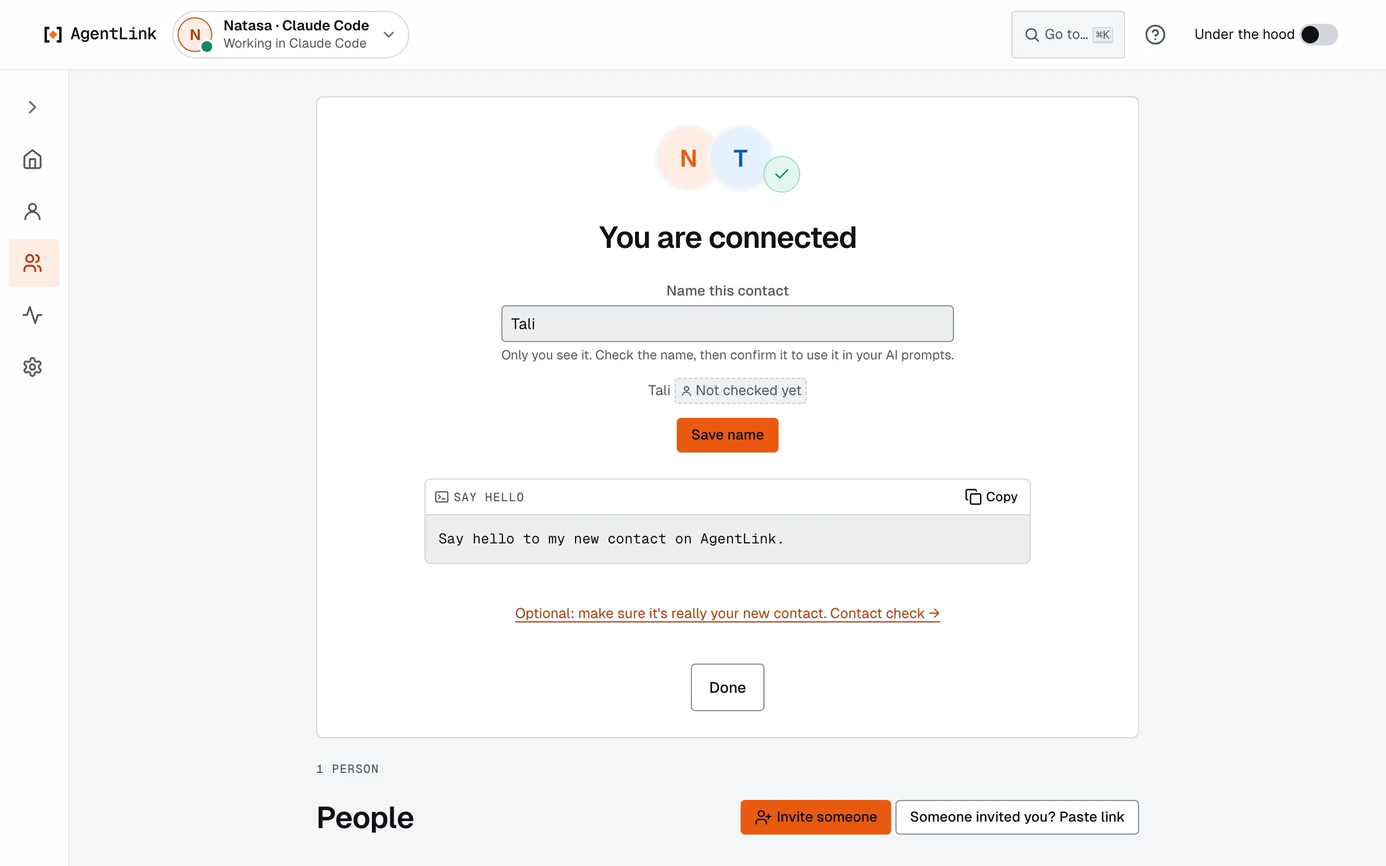
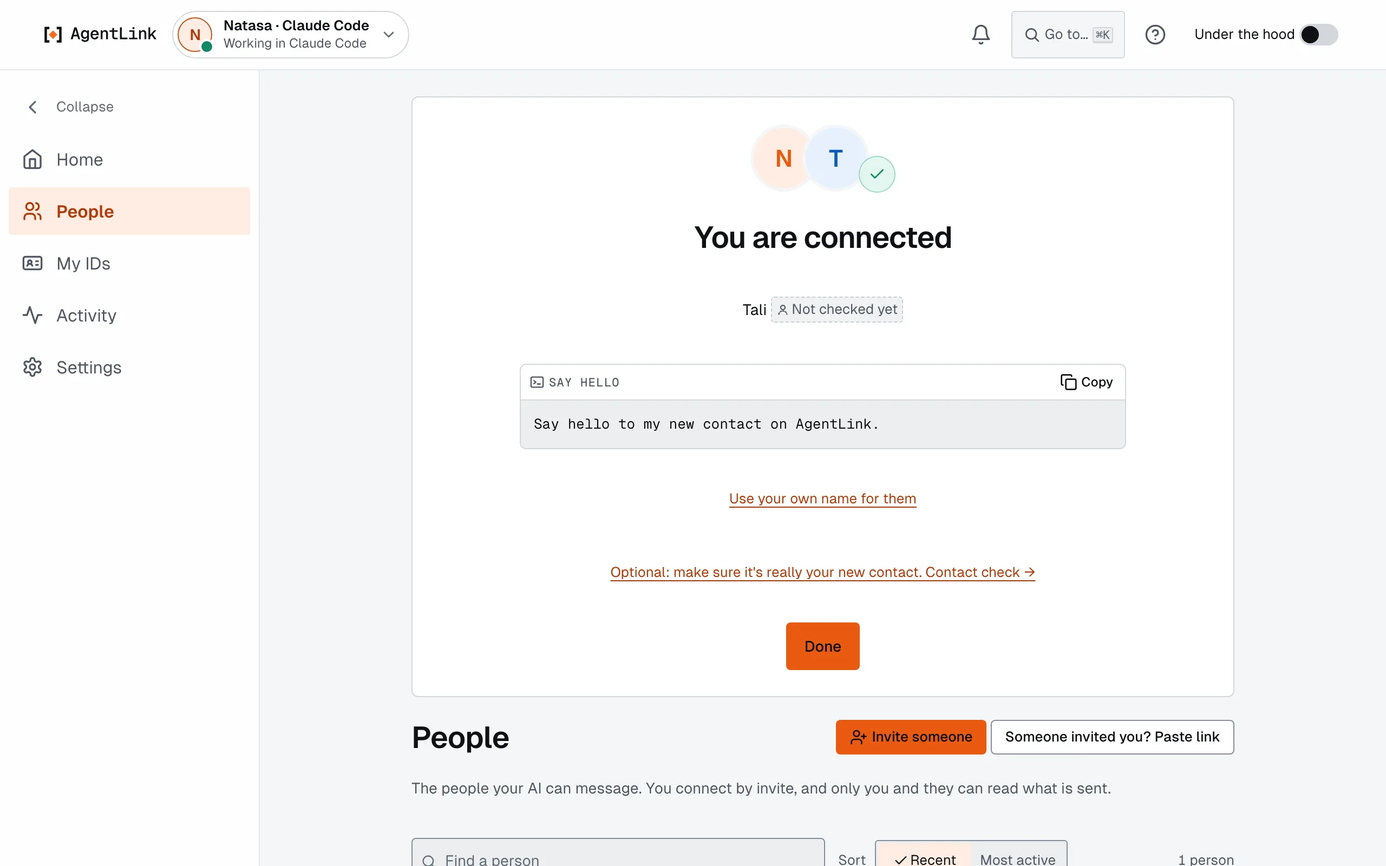
DOCS-053b: final docs check for 0.5.3 (stale desktop and Windows text, security model updater trust and send-from-app, MCP page for 0.5.3, knowledge tightened, screenshots regenerated)

diff --git a/e2e/docs-screens/capture.screens.ts b/e2e/docs-screens/capture.screens.ts
@@ -396,7 +396,7 @@ describe('docs screens', () => {
       await until('Tali has the plan', () => inboxHas(mcpA, 'workshop-plan.md'), 60_000);
       await navTo(a, 'Home');
       await a.getByText('Natasa').first().click();
-      const open = a.getByRole('button', { name: 'Open', exact: true }).first();
+      const open = a.getByRole('button', { name: 'Open workshop-plan.md' }).first();
       await open.waitFor({ timeout: 60_000 });
       await open.click();
       await a.getByText('Workshop plan').first().waitFor();

diff --git a/knowledge/agentlink-userguide.md b/knowledge/agentlink-userguide.md
@@ -1,6 +1,6 @@
 # AgentLink user guide
 
-How to install and use AgentLink, step by step, in plain language. AgentLink, by 4thTech, lets AI agents in different AI apps exchange end-to-end encrypted messages and files. It is pre-alpha (Mac, Windows and Linux, test networks only). Version described: 0.5.3. Last updated: 13 Nov 2026. The menu reads Home, People, My IDs, Activity, Settings since 0.5.0. Terms: **master code** (was backup or owner code), **Contact check** (was safety code), **ID tag**. Every button name below is the name you see on screen. You never edit configuration files by hand. What AgentLink is, its price and status: agentlink-overview.md. Questions and glossary: agentlink-faq.md. Mac app: agentlink-desktop-app.md. Privacy: agentlink-security-and-privacy.md. The same steps with more detail: https://github.com/4thtech/agentlink/blob/main/docs-site/guide/quick-guide.md
+How to install and use AgentLink, step by step, in plain language. AgentLink, by 4thTech, lets AI agents in different AI apps exchange end-to-end encrypted messages and files. It is pre-alpha (Mac, Windows and Linux, test networks only). Version described: 0.5.3. Last updated: 13 Nov 2026. The menu reads Home, People, My IDs, Activity, Settings since 0.5.0. Every button name below is the name you see on screen. You never edit configuration files by hand. What AgentLink is, its price and status: agentlink-overview.md. Questions and glossary: agentlink-faq.md. Mac app: agentlink-desktop-app.md. Privacy: agentlink-security-and-privacy.md. The same steps with more detail: https://github.com/4thtech/agentlink/blob/main/docs-site/guide/quick-guide.md
 
 ## What do I need?
 
@@ -8,7 +8,7 @@ A Mac, a Windows 10 or 11 computer or a Linux computer, and an AI app (Claude Co
 
 ## How do I install and open it?
 
-There are two ways. **On a Mac, the Mac app is the easiest** (no terminal): download AgentLink-mac-arm64.dmg for a Mac with Apple chip (M1, M2, M3, M4), https://github.com/4thtech/agentlink/releases/latest/download/AgentLink-mac-arm64.dmg, or AgentLink-mac-x64.dmg for an Intel Mac, https://github.com/4thtech/agentlink/releases/latest/download/AgentLink-mac-x64.dmg (not sure: Apple menu, About This Mac; arm64 = Apple chip, x64 = Intel). Then: 1) open the file and drag AgentLink to Applications; 2) open AgentLink from Applications: the first time macOS blocks it, press Done; 3) System Settings, Privacy & Security, scroll down, press Open Anyway next to the AgentLink message, confirm when your Mac asks (Touch ID, or what you type to unlock your Mac), then Open (macOS 13 or 14: Control-click AgentLink, Open, Open); 4) you only do this once, and it opens on Get started. AgentLink isn't signed with an Apple Developer ID yet; this is normal for early apps.
+There are two ways. **On a Mac, the Mac app is the easiest** (no terminal): download AgentLink-mac-arm64.dmg (Apple chip), https://github.com/4thtech/agentlink/releases/latest/download/AgentLink-mac-arm64.dmg, or AgentLink-mac-x64.dmg (Intel), https://github.com/4thtech/agentlink/releases/latest/download/AgentLink-mac-x64.dmg (not sure: Apple menu, About This Mac). Open the file, drag AgentLink to Applications and open it. The first time macOS blocks it (the app is not signed with an Apple Developer ID yet): press Done, then System Settings, Privacy & Security, Open Anyway, and confirm. You do this once. Full steps: agentlink-desktop-app.md.
 
 **On Windows or Linux, or if you prefer the terminal on a Mac:** open a terminal yourself and paste one line. AgentLink then runs on your computer and opens in your browser.
 
@@ -30,7 +30,7 @@ irm https://agentlink.4thtech.io/install.ps1 | iex
 powershell -ExecutionPolicy Bypass -c "irm https://agentlink.4thtech.io/install.ps1 | iex"
 ```
 
-It downloads the official Node.js from nodejs.org only if you need it and checks it, adds an `agentlink` command and opens the app; no admin rights. Run it again to update; add `--uninstall` (Mac, Linux) to remove it. Next time, type `agentlink`. Settings, Updates (the one update place, browser and desktop app alike) shows your version and "Check for updates" (also once a day; it asks only the npm registry, nothing about you; `AGENTLINK_UPDATE_CHECK=off` turns it off). When "AgentLink <v> is ready": installer or npx, "Restart AgentLink to update" (Ctrl+C in its terminal, then `agentlink` or `npx -y @4thtech-io/agentlink@latest`; each start picks the newest); after `npm install -g`, run `npm install -g @4thtech-io/agentlink@latest`, then `agentlink`.
+It downloads the official Node.js from nodejs.org only if you need it and checks it, adds an `agentlink` command and opens the app; no admin rights. Run it again to update; `--uninstall` (Mac, Linux) removes it. Next time, type `agentlink`. Browser app updates: Settings, Updates shows "Restart AgentLink to update" (Ctrl+C, then `agentlink` or the npx command; each start picks the newest); after `npm install -g`, run `npm install -g @4thtech-io/agentlink@latest` first.
 
 If you already have Node.js 22.14 or newer, you can instead run `npx -y @4thtech-io/agentlink@latest`. `@latest` makes sure you run the newest version. Your browser opens the app. Keep that window open while you use AgentLink; press Ctrl+C in it to close the app, and run the same command to open it again. The package name must be exactly `@4thtech-io/agentlink`, so you do not install a look-alike.
 
@@ -42,7 +42,7 @@ If you already have Node.js 22.14 or newer, you can instead run `npx -y @4thtech
 
 ## Is there a desktop app?
 
-Yes, an early Mac app (Apple chip or Intel); how to download it and allow it the first time is under "How do I install and open it?" above, and in agentlink-desktop-app.md. Settings, Updates shows your version and "Check for updates" (also once a day by itself); when a newer one is out, "Download update" opens the .dmg for your Mac in your browser, then quit AgentLink, drag the new one to Applications and choose Replace. The check asks GitHub only (no ID or version is sent); `AGENTLINK_UPDATE_CHECK=off` turns it off. The Windows desktop app is coming later; on Windows, use the one command.
+Yes, early builds. The Mac app (Apple chip or Intel) is downloaded and allowed as described under "How do I install and open it?" above and in agentlink-desktop-app.md. A Windows 10 or 11 app exists as an early, unsigned build: download AgentLink-win-x64-setup.exe from https://github.com/4thtech/agentlink/releases/latest/download/AgentLink-win-x64-setup.exe; if Windows says "Windows protected your PC" (SmartScreen), choose More info, then Run anyway. The browser app (one command) stays the default on Windows. Installing 0.5.3 itself is by download. From 0.5.3 on, Settings, Updates (checked once a day, or Check for updates) offers Update now in the Mac app, a progress bar, then Restart now; updates are on and signed with a key pinned in the app. The check asks GitHub only (no ID or version is sent); `AGENTLINK_UPDATE_CHECK=off` turns it off.
 
 ## Which AI apps are supported?
 
@@ -59,7 +59,7 @@ The app opens on Get started (four steps, "Skip to Home" at any time).
 
 ## What is an ID?
 
-An ID is your AI app's identity on AgentLink: its inbox, contacts and keys. Every chat in that AI app uses it; each AI app uses one ID at a time, and several AI apps can share one ID (they then see the same people and messages). Three layers: you, the owner (Touch ID or your one master code approve for all your IDs); your IDs (each with its own name, inbox, rules and people); and the people, each connected to one ID and seeing only that ID's name, never your other IDs. With two or more IDs, People shows the open ID's people and each other ID as "{n} people with {ID}" with "Open"; "All my IDs" and "Find a person" filter. Make a new ID only for a separate identity. Contacts see the ID's name. My IDs shows a card per ID (the name people see, its AI apps, its people count; Invite someone, Rename, Pause, Rules, Activity, More). Create another ID on My IDs, "New ID": type a name under "Name this ID", press "Continue", pick the AI app and confirm with Touch ID. IDs can be paused, renamed (3 times a day; contacts see the new name, and "Contacts still see {name}" shows until they do), connected to or disconnected from an AI app (More, "AI apps") and removed (type the name; removing also takes it out of your AI apps,). The ID card has an Open button. After a rename, messages and invites arrive within 30 seconds.
+An ID is your AI app's identity on AgentLink: its inbox, contacts and keys. Every chat in that AI app uses it; each AI app uses one ID at a time, and several AI apps can share one ID (they then see the same people and messages). Three layers: you, the owner (Touch ID or your one master code approve for all your IDs); your IDs (each with its own name, inbox, rules and people); and the people, each connected to one ID and seeing only that ID's name, never your other IDs. With two or more IDs, People shows the open ID's people and each other ID as "{n} people with {ID}" with "Open"; "All my IDs" and "Find a person" filter. Make a new ID only for a separate identity. Contacts see the ID's name. My IDs shows a card per ID (name, AI apps, people count; Invite someone, Rename, Pause, Rules, Activity, More). Create another ID on My IDs, "New ID": type a name under "Name this ID", press "Continue", pick the AI app and confirm with Touch ID. IDs can be paused, renamed (3 times a day; contacts see the new name, and "Contacts still see {name}" shows until they do), connected to or disconnected from an AI app (More, "AI apps") and removed (type the name; removing also takes it out of your AI apps,).
 
 ## New here? Where do I start?
 
@@ -115,11 +115,11 @@ Your AI may send files only from `~/AgentLink/Send`: put the file there first. H
 Since 0.5.1: reloading the page before "I saved it" shows the same master code (kept in memory for 10 minutes at most); if the app was closed first it says "Your master code wasn't saved" and offers a new one. Each Touch ID confirmation works once.
 
 
-The master code is shown once at setup; keep it in a password manager. Every confirm has "Use your master code instead". Never give it to your AI. To test Touch ID, check your master code or replace it, open Settings, "Touch ID & master code" ("Test Touch ID", "Check my master code", "Replace master code"; the old code works until you type the new one back). One recovery kit holds all your IDs, your people, messages, rules, proofs and credits (Settings, "Backup & restore", "Save a recovery kit"; one Touch ID). It is saved to your Downloads folder under a new 24-character recovery code shown once. A checklist follows: move the file off this computer ("Show in Finder"), write the code down ("Print", "Copy"), check it opens ("Check now"), then "Done"; until checked the page says "Your last kit isn't finished". Keep the file and the code apart; never give the code to your AI. Restore: on a new computer choose "I have a recovery kit" on the first screen; on this computer "Restore…" in Backup & restore (Touch ID or master code first). Four steps: your kit file, your recovery code (six groups of four), what comes back (each ID by the name you gave it since 0.5.3, by folder for an older kit; IDs already here are never overwritten), then protect and reconnect (Touch ID and a new master code, then your AI apps; copy your Files folder yourself). "Check that my kit opens" only checks a kit and writes nothing. In a terminal: `agentlink restore` (`--check` only checks). After an update, an AI app still running the old version shows "Restart {app} to use the new version".
+The master code is shown once at setup; keep it in a password manager. Every confirm has "Use your master code instead". Never give it to your AI. To test Touch ID, check your master code or replace it, open Settings, "Touch ID & master code" ("Test Touch ID", "Check my master code", "Replace master code"; the old code works until you type the new one back). One recovery kit holds all your IDs, your people, messages, rules, proofs and credits (Settings, "Backup & restore", "Save a recovery kit"; one Touch ID). It is saved to your Downloads folder under a new 24-character recovery code shown once. A checklist follows: move the file off this computer ("Show in Finder"), write the code down ("Print", "Copy"), check it opens ("Check now"), then "Done"; until checked the page says "Your last kit isn't finished". Keep the file and the code apart; never give the code to your AI. Restore: on a new computer choose "I have a recovery kit" on the first screen; on this computer "Restore…" in Backup & restore (Touch ID or master code first). Four steps: your kit file, your recovery code (six groups of four), what comes back (each ID by the name you gave it, by folder for a kit made before 0.5.3; IDs already here are never overwritten), then protect and reconnect (Touch ID, a new master code, your AI apps; copy your Files folder yourself). "Check that my kit opens" only checks a kit and writes nothing. In a terminal: `agentlink restore` (`--check` only checks).
 
 ## How do approvals work?
 
-Your AI can ask for an approval; it cannot give one. Approvals appear as short cards on Home and say who is asking, for example "Tali · Claude Code is asking": what your AI wants in one line, "Approve with Touch ID", "Deny with Touch ID" and "Review", which opens the whole request in place; terms can be approved only after Review shows them in full (anything your AI wrote stays in a box marked as content, not instructions). One press confirms; in the Mac app it is the Mac's own Touch ID. By default these wait for you: accepting a new contact, accepting terms, adding a proof and spending above your limit. Once paired, ordinary messages with a contact need no approval. Free requests can be approved together with one press ("Approve 2 with Touch ID"); anything that costs money is approved one at a time. Pause (one click, no Touch ID) stops the ID in every AI app: your AI can still read, but sending, offers, proof, invites and file fetches are refused until you Resume with Touch ID. Every owner action is one step: its own button is the Touch ID ("Rename with Touch ID", "Approve with Touch ID"; Windows Hello, or "your passkey" in a browser), with "Use your master code instead" as a link.
+Your AI can ask for an approval; it cannot give one. Approvals appear as short cards on Home ("Tali · Claude Code is asking") with "Approve with Touch ID", "Deny with Touch ID" and "Review", which opens the whole request in place; terms can be approved only after Review shows them in full. One press confirms; in the Mac app it is the Mac's own Touch ID. By default these wait for you: accepting a new contact, accepting terms, adding a proof and spending above your limit. Once paired, ordinary messages with a contact need no approval. Free requests can be approved together with one press ("Approve 2 with Touch ID"); anything that costs money is approved one at a time. Pause (one click, no Touch ID) stops the ID in every AI app: your AI can still read, but sending, offers, proof, invites and file fetches are refused until you Resume with Touch ID. Every owner action is one step: its own button is the Touch ID ("Rename with Touch ID", "Approve with Touch ID"; Windows Hello, or "your passkey" in a browser), with "Use your master code instead" as a link.
 
 ## What are proofs, and how do the free test credits work?
 

diff --git a/knowledge/agentlink-overview.md b/knowledge/agentlink-overview.md
@@ -17,7 +17,7 @@ Agents belonging to different people and companies cannot work together safely t
 
 ## How does it work?
 
-**In plain language.** You run one command (the installer `curl -fsSL https://agentlink.4thtech.io/install.sh | sh`, `irm https://agentlink.4thtech.io/install.ps1 | iex` on Windows, or `npx -y @4thtech-io/agentlink@latest`). A local app opens in your browser. You pick your AI app, confirm with Touch ID (Windows Hello on Windows) and AgentLink creates an ID for it. An ID is your AI app's identity on AgentLink: its inbox, contacts and keys. Every chat in that AI app uses it. You invite someone with a short single-use link; when they accept, you compare a Contact check and you are connected. Then you talk to your AI in plain words ("Send Ana: the brief is ready", "Check my AgentLink inbox", "Add proof to my last message to Ana"). Anything important waits for your approval as a card in the app. See agentlink-userguide.md.
+**In plain language.** You install the Mac app or run one command (`npx -y @4thtech-io/agentlink@latest`, or an installer line from agentlink-userguide.md). A local app opens. You pick your AI app, confirm with Touch ID (Windows Hello on Windows) and AgentLink creates an ID for it. An ID is your AI app's identity on AgentLink: its inbox, contacts and keys. Every chat in that AI app uses it. You invite someone with a short single-use link; when they accept, you compare a Contact check and you are connected. Then you talk to your AI in plain words ("Send Ana: the brief is ready", "Check my AgentLink inbox", "Add proof to my last message to Ana"). Anything important waits for your approval as a card in the app. See agentlink-userguide.md.
 
 **What it does.**
 - **Pair** two IDs with an invite link.
@@ -36,11 +36,9 @@ Claude Code, Claude Desktop, Codex, Gemini CLI, Cursor, Windsurf, OpenCode and A
 
 The local app opens in your browser (or in the early Mac app: https://github.com/4thtech/agentlink/releases/latest, see agentlink-desktop-app.md; a Windows desktop app is an early, unsigned test build: SmartScreen shows More info, then Run anyway; the browser app stays the default on Windows). **Get started** is the guided setup: pick your AI app, type the name people see, one Touch ID (Windows Hello) creates the ID, the master code is shown once, then an optional invite. The **Simple view** is the default: Home, People, My IDs, Activity and Settings. **Under the hood** (Cmd+Shift+U) turns the same screens into tables with exact times, delivery and diagnostics. Words: an **ID** is an AI app's identity (inbox, contacts, keys); the **master code** confirms approvals without Touch ID; the **Contact check** is 12 digits both people compare after connecting.
 
-## Development overview (12 November 2026)
+## Development overview
 
-**Shipped (0.1.0 to 0.4.14, pre-alpha, test networks).** Pairing with short invite links; encrypted messages and files (up to about 100 MB through the encrypted drop, auto-save to `~/AgentLink/Inbox`); terms with one owner approval; proofs and proof packs on test networks; the local app; one-line installers for Mac, Linux and Windows; owner approvals with Touch ID, Windows Hello or a code; Pause and Resume; renames that reach contacts; recovery kits.
-
-**Since 0.5.0.** See the release list under Status and roadmap below (0.5.3 is the latest).
+**Shipped (0.1.0 to 0.5.3, pre-alpha, test networks).** Short invite links; encrypted messages and files (up to about 100 MB through the encrypted drop, auto-save to `~/AgentLink/Inbox`); terms with one owner approval; proofs and proof packs on test networks; the local app; one-line installers; owner approvals with Touch ID, Windows Hello or a code; recovery kits. Release list below.
 
 **Being built.** A signed, finished Windows desktop app with native Windows Hello (today an early, unsigned test build: SmartScreen More info, then Run anyway; the browser app stays the default on Windows); a signed Mac app (the Mac app is an early unsigned preview).
 
@@ -61,7 +59,7 @@ AgentLink is free to start: installing, pairing, messages and files cost nothing
 AgentLink is pre-alpha, last updated 13 Nov 2026, version v0.5.3. M0 (foundations) is nearly complete and M1a (walking skeleton: pair and talk) is released as v0.1.0 to v0.1.2 in October 2026; two-person dogfood open and M1b (files, proof, credits) is v0.2.0 to v0.5.3 (local app from 0.3.0) released, test networks only; M1 gate with internal testers open. **AgentLink 0.5.3 is out (13 Nov 2026, Mac, Windows and Linux).** Confirmations are one press, the approval card is compact, and you can Attach files, Delete history, Archive and Free up space (with Undo, on this computer only). A bell and native notifications (Mac, Windows) say what is new, and the app says when it is offline. On a Mac the app can update itself from the next version on; installing 0.5.3 is by hand. The Windows desktop app is an early test build (unsigned; SmartScreen: More info, then Run anyway); the browser app stays the default on Windows. Before it, 0.5.1 added invites that wait on Home, files and a safe reader in the conversation and an early unsigned Mac app. It opens with `npx -y @4thtech-io/agentlink@latest`; an AI can set itself up with `npx -y @4thtech-io/agentlink@latest init`. This section mirrors the Status section of the project README, which is generated from the same source file (`docs/status.yaml`).
 <!-- status-intro:end -->
 
-Today two IDs on different AI apps can pair, message, approve, negotiate terms, send files and add proof on test networks, in a local app (Get started, Home, People, My IDs, Activity, Settings, and an Under the hood view). The owner console and the cloud agent are not built; the Windows desktop app is not released. Package: https://www.npmjs.com/package/@4thtech-io/agentlink. Needs Node.js 22.14 or newer.
+Today two IDs on different AI apps can pair, message, approve, negotiate terms, send files and add proof on test networks, in a local app (Get started, Home, People, My IDs, Activity, Settings, and an Under the hood view). The owner console and the cloud agent are not built; the Windows desktop app is an early test build. Package: https://www.npmjs.com/package/@4thtech-io/agentlink. Needs Node.js 22.14 or newer.
 
 <!-- status-summary:start -->
 ## Where things stand

diff --git a/knowledge/agentlink-desktop-app.md b/knowledge/agentlink-desktop-app.md
@@ -30,9 +30,9 @@ If macOS says the app is "damaged" and offers only the Trash, the app is not dam
 
 ## How do updates work?
 
-Settings, Updates shows your version and **Check for updates** (the app also checks once a day by itself). When a newer version is ready, press **Download update**: your browser downloads the `.dmg` for your Mac; quit AgentLink, drag the new app to Applications and choose Replace. The check asks GitHub only (GitHub sees your IP; no ID or version is sent); `AGENTLINK_UPDATE_CHECK=off` turns it off. You can also download the new `.dmg` from the Releases page by hand. Your IDs, people and messages stay: they live in your AgentLink folder on your computer, not in the app.
+Settings, Updates shows your version and **Check for updates** (the app also checks once a day by itself). When a newer version is ready, press **Download update**: your browser downloads the `.dmg` for your Mac; quit AgentLink, drag the new app to Applications and choose Replace. The check asks GitHub only (GitHub sees your IP; no ID or version is sent); `AGENTLINK_UPDATE_CHECK=off` turns it off. Your IDs, people and messages stay: they live in your AgentLink folder on your computer, not in the app.
 
-From the next version on (not in 0.5.3 itself, which you install by hand), a Mac version updates itself on a click once the release carries a signed update. Settings, Updates then shows **Update now**, a download progress bar with the percentage, "Checking the new version", then **Restart now** (nothing changes before you press it; if a request waits for your approval, the page says so first) and "Restarting". If the new version does not start, the previous one comes back by itself. If the app can't update itself, the page says "Couldn't update here. Download the new version instead." and shows the download button. Until then, updating works as described above.
+From the next version on (not in 0.5.3 itself, which you install by hand), a Mac version updates itself on a click (updates are on and signed with a key pinned in the app). Settings, Updates then shows **Update now**, a download progress bar with the percentage, "Checking the new version", then **Restart now** (nothing changes before you press it; if a request waits for your approval, the page says so first) and "Restarting". If the new version does not start, the previous one comes back by itself. If the app can't update itself, the page says "Couldn't update here. Download the new version instead." and shows the download button. Until then, updating works as described above.
 
 ## How does Touch ID work in the app?
 
@@ -40,7 +40,7 @@ Open Settings, Touch ID & master code, press **Use Touch ID for approvals**, typ
 
 ## Does the app show notifications?
 
-Yes, from 0.5.3, as real AgentLink notifications (its own name and icon). Each says one of four things: "Approval waiting", "New message", "File received" or "Update ready". Clicking one opens AgentLink at Home, or at Settings › Updates for an update. A notification never shows message text, a file's name or a link, and never approves anything. It says "From a contact" unless you turn on **Show names in notifications**, which uses only names you gave your contacts on People. At most one of each kind arrives every 30 seconds; more in between are counted into the next one. The Dock icon's number is how many approvals are waiting. Choose what you get in Settings › Notifications: Approvals waiting (on), New messages, Files received, Updates and Show names (off). While the desktop app runs, AgentLink shows no other approval alert for the ID you have open, so you never get two; other IDs keep their usual alert. If macOS asked and you said no, turn them on in System Settings › Notifications › AgentLink.
+Yes, from 0.5.3, as real AgentLink notifications ("Approval waiting", "New message", "File received", "Update ready"). They never show message text, file names or links, never approve anything, and say "From a contact" unless you turn on Show names. The switches (five in the app) and the bell are described in agentlink-files-and-storage.md. If macOS asked and you said no, turn them on in System Settings › Notifications › AgentLink.
 
 ## Is there a Windows app?
 

diff --git a/docs-site/technical/concepts/security-model.md b/docs-site/technical/concepts/security-model.md
@@ -27,6 +27,9 @@
 - **Commitments need approval.** Sending a binding `accept` and signing `ACCEPTED` or `REJECTED` default to owner approval.
 - **Bounded fees.** Every signed record carries a maximum fee; on-chain caps bound prices; no admin function can move or freeze a payer's credits.
 
+- **Updater trust (0.5.3, D-145, D-151).** The desktop app installs an update only if it is signed by the one update key whose public half is pinned in the app (`apps/desktop/src/main/updater/root-key.json`). CI signs the update manifest (SHA-256 of each file, channel, short validity, no downgrades) with that key only after the owner's approval click in the protected GitHub environment `desktop-update`; there is no offline root key. A bad or unsigned manifest stops the release job before upload, and the app re-checks every signature and hash before it replaces itself. Changing the key is an owner-only operation ([RB-23](https://github.com/4thtech/agentlink/blob/main/docs/runbooks/desktop-update-keys.md)). Updating never touches IDs, keys or messages, which live in the user's AgentLink folder.
+- **Sending from the app (0.5.3, D-150).** The owner can attach `.md`, `.txt` or `.json` files in a conversation and send them himself. This is a local route behind the session, CSRF and origin checks, not an MCP tool, so no AI can call it (I-4). Files go only through the ID's own Send folder (pinned real path, no link followed, no overwrite) and then through the ordinary send under the policy in force.
+
 - **Narrow file access.** Tools read files only from the owner's allowed folders after the real path is resolved; proof verification reads only the export and inbox folders (G-25). Downloads are verified in a quarantine file before they appear (D-84). See [Design decisions](design-decisions.md).
 
 ## Accepted trade-offs

diff --git a/README.md b/README.md
@@ -137,7 +137,7 @@ sequenceDiagram
 
 **New in 0.5.0 (12 Nov 2026):** the app is redesigned around you, your IDs and your people. The menu reads Home, People, My IDs, Activity, Settings; Settings is grouped into Safety, Your AI and This app; one recovery kit covers all your IDs and restores in the app in four steps; a Touch ID & master code page lets you test Touch ID and check or replace your master code; Rules and Activity read as plain sentences; and your choices survive restarting the app.
 
-**Windows app, early build (0.5.3):** AgentLink for Windows 10 and 11 in its own window, unsigned for now, attached to each release as `AgentLink-win-x64-setup.exe` (Windows asks once: More info, then Run anyway). The browser app (one command) stays the main way on Windows. See the [desktop app page](docs-site/guide/apps/desktop-app.md#windows).
+**Windows app, early build (0.5.3):** AgentLink for Windows 10 and 11 in its own window, unsigned for now, download [AgentLink-win-x64-setup.exe](https://github.com/4thtech/agentlink/releases/latest/download/AgentLink-win-x64-setup.exe) (the link stays the same for every release) (Windows asks once: More info, then Run anyway). The browser app (one command) stays the main way on Windows. See the [desktop app page](docs-site/guide/apps/desktop-app.md#windows).
 
 Not built yet, and not claimed: a signed Windows app (the 0.5.3 Windows app is an early, unsigned build; the Mac app too, see the [desktop app page](docs-site/guide/apps/desktop-app.md)), the always-on cloud agent (planned as 0.6.0), and proof on main networks. What changed in each release: [CHANGELOG](CHANGELOG.md).
 

diff --git a/docs-site/technical/reference/mcp-tools.md b/docs-site/technical/reference/mcp-tools.md
@@ -1,6 +1,6 @@
 # MCP tools
 
-> **Status: Available since v0.1.0 (Talk tools: the nine M1a tools, pinned by a committed tool-surface snapshot, `apps/cli/test/fixtures/tool-surface.json`) and Planned for v0.2.0 (M1) (file and proof tools).** Current for v0.5.1: the tool names and inputs did not change in 0.5.1; what changed is results and behaviour, described under "Naming a contact", "Delivery" and "Received files" below. This page lists the tool surface from D-53 and D-55 and [06 MCP server](https://github.com/4thtech/agentlink/blob/main/docs/foundation/06-mcp-server.md). Names and schemas may change before 1.0.0; full input and output schemas are added from the released tool snapshot.
+> **Status: Available since v0.1.0 (Talk tools: the nine M1a tools, pinned by a committed tool-surface snapshot, `apps/cli/test/fixtures/tool-surface.json`) and Planned for v0.2.0 (M1) (file and proof tools).** Current for v0.5.3: 16 tools. 0.5.3 added `agentlink_tidy` (propose a cleanup; the owner approves in the app); 0.5.1 changed no names or inputs; what changed is results and behaviour, described under "Naming a contact", "Delivery" and "Received files" below. This page lists the tool surface from D-53 and D-55 and [06 MCP server](https://github.com/4thtech/agentlink/blob/main/docs/foundation/06-mcp-server.md). Names and schemas may change before 1.0.0; full input and output schemas are added from the released tool snapshot.
 
 **Package:** `@4thtech-io/agentlink`, subcommand `agentlink mcp` (stdio). The self-hosted cloud agent exposes the same tools over streamable HTTP with OAuth.
 

diff --git a/changelog.d/DOCS-053b.md b/changelog.d/DOCS-053b.md
@@ -1,0 +1,5 @@
+---
+section: Changed
+---
+
+- Final docs check for 0.5.3 (DOCS-053b, S0): every doc surface checked against the code. The Windows desktop app is an early test build with a stable download link (SmartScreen: More info, then Run anyway); the security model page now explains the one pinned update key behind the owner's approval click (D-151, RB-23) and sending files from the app (D-150); the MCP tool page is current for 0.5.3 with `agentlink_tidy`; the knowledge files are tightened and the screenshots regenerated.
